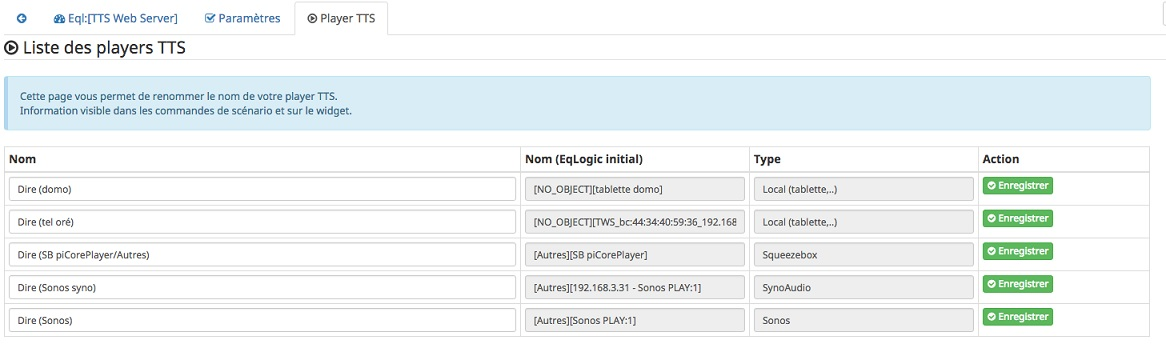
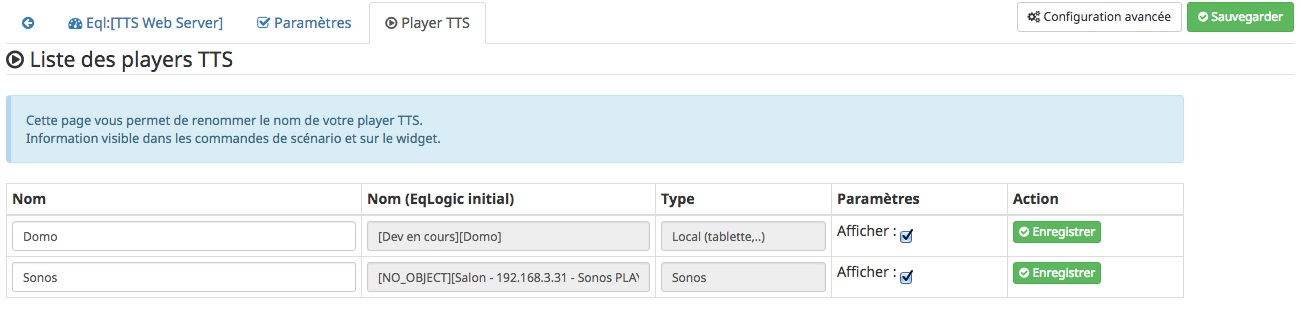
v1.1.0

diff --git a/doc/fr_FR/index.html b/doc/fr_FR/index.html
@@ -370,7 +370,7 @@ span.icon > [class^="icon-"], span.icon > [class*=" icon-"] { cursor: default; }
 <h2 id="_description">Description</h2>
 <div class="sectionbody">
 <div class="paragraph">
-<p>Ce plugin vous permet de générer des messages TTS via un Web Service dédié hébergé sur Androdi (soit hors solution cloud).<br>
+<p>Ce plugin vous permet de générer des messages TTS via un Web Service dédié hébergé sur Android (donc aucune utilisation du cloud).<br>
 Pour permettre cette fonction, ce plugin nécessite obligatoire l&#8217;installation de l&#8217;application Android du même nom (TTS Web Server).<br>
 <br>
 Le plugin dispose des fonctionnalités suivantes :</p>
@@ -378,7 +378,7 @@ Le plugin dispose des fonctionnalités suivantes :</p>
 <div class="ulist">
 <ul>
 <li>
-<p>de diffuser sur différent player <code>(*1)</code>:</p>
+<p>de diffuser sur différents players <code>(*1)</code>:</p>
 <div class="ulist">
 <ul>
 <li>
@@ -401,7 +401,7 @@ Le plugin dispose des fonctionnalités suivantes :</p>
 <div class="ulist">
 <ul>
 <li>
-<p>un espace de partage distant (ex: Synology) ;</p>
+<p>un espace de partage distant (ex: NAS Synology) ;</p>
 </li>
 <li>
 <p>localement sur la box Jeedom ;</p>
@@ -421,9 +421,9 @@ Le plugin dispose des fonctionnalités suivantes :</p>
 <i class="icon-tip" title="Tip"></i>
 </td>
 <td class="content">
-<code>(*1)</code>: <strong>les plugins associés doivent obligatoirement être installés</strong> pour que la diffusion sur ces players fonctionnent correctement (pour certain, les commandes "dire" des plugin initiaux réutilisés).<br>
-Remarque: si le plugin n&#8217;est pas installé, la diffusion de la synthèse par celui ne sera pas proposé au niveau du TTS Web Server.<br>
-<code>(*2)</code>: par défaut, le moteur Google, mais aussi si vous achetez des voix supplémentaires Voxygene par exemple.<br>
+<code>(*1)</code>: <strong>les plugins associés doivent obligatoirement être installés</strong> pour que la diffusion sur ces players fonctionnent correctement (pour certain, les commandes "dire" des plugin initiaux sont réutilisés).<br>
+Remarque: si le plugin n&#8217;est pas installé, la diffusion de la synthèse par celui-ci ne sera pas proposé au niveau du TTS Web Server.<br>
+<code>(*2)</code>: par défaut, le moteur Google, mais aussi si vous achetez des voix supplémentaires (Voxygen par exemple).<br>
 </td>
 </tr>
 </table>
@@ -443,6 +443,13 @@ Remarque: si le plugin n&#8217;est pas installé, la diffusion de la synthèse p
 </td>
 </tr>
 </table>
+</div>
+<div class="sect2">
+<h3 id="__repr_sentation_des_2_widgets_possibles">&#8201;&#8212;&#8201;Représentation des 2 widgets possibles</h3>
+<div class="paragraph">
+<p><span class="image"><img src="../images/ttsWebServer_screenshot7.jpg" alt="ttsWebServer_screenshot7"></span>
+<br></p>
+</div>
 </div>
 </div>
 </div>
@@ -464,7 +471,7 @@ Remarque: si le plugin n&#8217;est pas installé, la diffusion de la synthèse p
 <p>Vérifier que les dépenses sont bonnes ;</p>
 </li>
 <li>
-<p>Ne cocher la case "bouton "Ajouter"" que si la dépense "ARP-SCAN" ne peut pas s&#8217;installer ;</p>
+<p>Ne cocher la case "bouton "Ajouter"" que si la dépendance "ARP-SCAN" ne peut pas s&#8217;installer ;</p>
 </li>
 <li>
 <p>Cocher l&#8217;option "Afficher le panel mobile" ;</p>
@@ -477,7 +484,7 @@ Remarque: si le plugin n&#8217;est pas installé, la diffusion de la synthèse p
 <div class="ulist">
 <ul>
 <li>
-<p>Activer le paramètre "source inconnue" ;</p>
+<p>Activer le paramètre "source inconnue" (généralement accessible dans les paramètres de sécurité) ;</p>
 </li>
 <li>
 <p>Autoriser le stockage de fichier pour l&#8217;application TWS (action à faire, une fois l&#8217;installation terminée, étape ci-dessous) ;</p>
@@ -486,7 +493,7 @@ Remarque: si le plugin n&#8217;est pas installé, la diffusion de la synthèse p
 </div>
 </li>
 <li>
-<p>Depuis l&#8217;interface mobile, se rendre sur la menu plugin ;</p>
+<p>Depuis l&#8217;interface mobile de Jeedom <code>(*1)</code>, se rendre sur le menu plugin ;</p>
 <div class="ulist">
 <ul>
 <li>
@@ -510,15 +517,34 @@ Remarque: si le plugin n&#8217;est pas installé, la diffusion de la synthèse p
 </li>
 </ul>
 </div>
+<div class="admonitionblock tip">
+<table>
+<tr>
+<td class="icon">
+<i class="icon-tip" title="Tip"></i>
+</td>
+<td class="content">
+<code>(*1)</code> l&#8217;interface mobile est accessible via un navigateur Web, il n&#8217;est pas question ici de l&#8217;application mobile de Jeedom.
+</td>
+</tr>
+</table>
+</div>
+</div>
+<div class="sect2">
+<h3 id="__version_android">&#8201;&#8212;&#8201;Version Android</h3>
+<div class="paragraph">
+<p>Pour l&#8217;installation de l&#8217;APK, le build minimum d&#8217;Android autorisé est le "19", correspondant à la version 4.4 (kitkat).
+Pour plus d&#8217;information se référer à la <a href="https://source.android.com/source/build-numbers">liste des versions</a>.</p>
+</div>
 </div>
 <div class="sect2">
 <h3 id="__installation_et_configuration_du_plugin">&#8201;&#8212;&#8201;Installation et configuration du plugin</h3>
 <div class="paragraph">
-<p>Après téléchargement du plugin, vous devez l&#8217;activer pour profiter de ces fonctionnalité.<br></p>
+<p>Après téléchargement du plugin, vous devez l&#8217;activer pour profiter de ces fonctionnalités.<br></p>
 </div>
 <div class="paragraph">
 <p>Une mise à niveau / installation des "Dépendances" est fortement recommandée pour disposer de toutes les fonctionnalités du plugin.
-<em>(plus d&#8217;informations sur <a href="https://github.com/abarrau/jeedom-plugin-ttsWebServer-doc/wiki/TTS-Web-Service-Plugin-:-liste-des-d%C3%A9pendances">les dépendances</a>)</em><br></p>
+<em>(plus d&#8217;informations sur <a href="https://github.com/abarrau/jeedom-plugin-ttsWebServer-doc/wiki/TTS-Web-Server-Plugin-:-liste-des-d%C3%A9pendances">les dépendances</a>)</em><br></p>
 </div>
 <div class="paragraph">
 <p>Des paramètres de configuration vous sont proposés, mais les valeurs par défaut peuvent être conservées.<br></p>
@@ -555,6 +581,17 @@ Un bouton vous permet de réaliser l&#8217;opération manuellement.</p></td>
 <td class="tableblock halign-left valign-top"><p class="tableblock">Si l&#8217;option est activée, une maintenant quotidienne (à 0h), est réalisée pour vérifier si les fichiers listés dans la bibliothèque sont bien présents, en fonction du "lieu" de sauvegarde définie.<br>
 En cas d&#8217;erreur, une icone s&#8217;affiche dans la colonne "emplacement" sur la bibliothèque.<br>
 Un bouton vous permet de réaliser l&#8217;opération manuellement.</p></td>
+</tr>
+<tr>
+<td class="tableblock halign-left valign-top"><p class="tableblock">(Maintenance) Rechercher les fichiers "orphelins"</p></td>
+<td class="tableblock halign-left valign-top"><p class="tableblock">Permet de recherche les fichiers orphelins (présent sur l&#8217;espace de stockage, mais absent de la bibliothèque). 2 valeurs possibles:<br>
+- "création en bibliothèque": le fichier est recréé dans la bibliothèque, mais sans phrase associée; cela vous permet d&#8217;avoir une vision de ce que vous avez dans le répertoire de stockage et les supprimers au besoin.<br>
+- "suppression": le fichier est directement supprimé.</p></td>
+</tr>
+<tr>
+<td class="tableblock halign-left valign-top"><p class="tableblock">(Maintenance) Suppression fichiers anciens</p></td>
+<td class="tableblock halign-left valign-top"><p class="tableblock">Permet de supprimer les fichiers dont la date d&#8217;utilisation est plus anciennes que la durée sélectionnées.<br>
+Valeurs possibles: Désactivé, 15j, 30j, 90j, 180j.</p></td>
 </tr>
 <tr>
 <td class="tableblock halign-left valign-top"><p class="tableblock">(Distant) TimeOut des requêtes</p></td>
@@ -764,8 +801,9 @@ Pour définir l&#8217;ordre, sélectionnez l&#8217;icone "double flêche" et dé
 <p><span class="image"><img src="../images/ttsWebServer_TWS3.jpg" alt="ttsWebServer_TWS3"></span></p>
 </div>
 <div class="paragraph">
-<p>Depuis cette page, vous pouvez renommer le nom des commandes qui ont été détectée comme des players potentiels pour la diffusion de TTS.<br>
-Ce nom apparait au niveau du widget (bouton de validation d&#8217;envoi du texte à synthétiser).<br></p>
+<p>Depuis cette page, vous pouvez renommer le nom des commandes qui ont été détectées comme des players potentiels pour la diffusion de TTS.<br>
+Ce nom apparait au niveau du widget (bouton de validation d&#8217;envoi du texte à synthétiser) sur le widget de l'équipement "Serveur".<br>
+Vous pouvez également paramétrer son affichage ou non (si la case est décoché, la commande ne sera pas affichée sur l'équipement "Serveur").</p>
 </div>
 <div class="admonitionblock note">
 <table>
@@ -774,8 +812,7 @@ Ce nom apparait au niveau du widget (bouton de validation d&#8217;envoi du texte
 <i class="icon-note" title="Note"></i>
 </td>
 <td class="content">
-L&#8217;enregistrement de ce nouveau nom doit obligatoirement être enregistré par le bouton "enregistré" au niveau de chaque ligne (colonne "Action").<br>
-Remarque: il est également recommandé d&#8217;enregistrer au niveau de l'équipement également (pour permettre un raffrachissement des widgets).
+L&#8217;enregistrement de ce nouveau nom (ou changement de paramètres) doit obligatoirement être enregistré par le bouton "enregistré" au niveau de chaque ligne (colonne "Action").<br>
 </td>
 </tr>
 </table>
@@ -841,6 +878,53 @@ La liste "application" n&#8217;est pas encore utilisée, elle est là à titre d
 </table>
 
 <div class="paragraph">
+<p><strong><span class="lime underline">L&#8217;onglet "Commandes"</span></strong> présente les commandes disponilbes au niveau de l'équipement local hébergent l&#8217;application TWS :</p>
+</div>
+<div class="paragraph">
+<p><span class="image"><img src="../images/ttsWebServer_TWS5.jpg" alt="ttsWebServer_TWS5"></span></p>
+</div>
+<div class="paragraph">
+<p>Ces commandes sont créées à la création de l'équipement. Vous ne pouvez ni en ajouter, ni en supprimer (elles seront créées lors d&#8217;un enregistrement).<br>
+Vous pouvez : modifier le nom, paramétrer si vous les afficher ou non et si vous souhaitez historiser les données ou non.</p>
+</div>
+<table class="tableblock frame-topbot grid-all" style="width:100%; ">
+<colgroup>
+<col style="width:25%;">
+<col style="width:75%;"> 
+</colgroup>
+<thead>
+<tr>
+<th class="tableblock halign-left valign-top">Paramètre</th>
+<th class="tableblock halign-left valign-top">Description</th>
+</tr>
+</thead>
+<tbody>
+<tr>
+<td class="tableblock halign-left valign-top"><p class="tableblock">Statut WS</p></td>
+<td class="tableblock halign-left valign-top"><p class="tableblock">Remonte l'état du service de l&#8217;application TWS distante.<br>
+Remarque: cette information est mise à jour à chaque requête vers l&#8217;application.<br>
+Cas à prendre en compte: dans le cas d&#8217;un timeout de la requête TTS, l'état passera à "0".</p></td>
+</tr>
+<tr>
+<td class="tableblock halign-left valign-top"><p class="tableblock">Batterie</p></td>
+<td class="tableblock halign-left valign-top"><p class="tableblock">Remonte le niveau de batterie de l'équipement distant où est hébergé l&#8217;application TWS (en %).<br>
+Remarque: le niveau de batterie reste à la dernière valeur connue lorsque l&#8217;application distante TWS n&#8217;est pas joignable.</p></td>
+</tr>
+<tr>
+<td class="tableblock halign-left valign-top"><p class="tableblock">Dire</p></td>
+<td class="tableblock halign-left valign-top"><p class="tableblock">Cette commande permet d&#8217;envoyer une demande de diffusion TTS sur l'équipement distant.
+(La même commande se retrouve aussi sur l'équipement "Serveur" pour l'équipement distant en question.)<br>
+Remarque: dans ce cas, la fonction "cluster" ne s&#8217;applique pas.</p></td>
+</tr>
+<tr>
+<td class="tableblock halign-left valign-top"><p class="tableblock">Relancer Service</p></td>
+<td class="tableblock halign-left valign-top"><p class="tableblock">Cette commande permet de relancer le Service sur l&#8217;application TWS distante.<br>
+<em>(Attention: cette action NE DEMARRE PAS l&#8217;application, elle relance uniquement le service d'écoute.)</em></p></td>
+</tr>
+</tbody>
+</table>
+
+<div class="paragraph">
 <p><strong><span class="lime underline">L&#8217;onglet "Etats / Infos"</span></strong> présente de remonter des informations liée à l&#8217;application TWS :</p>
 </div>
 <div class="paragraph">
@@ -856,8 +940,8 @@ La liste "application" n&#8217;est pas encore utilisée, elle est là à titre d
 <i class="icon-note" title="Note"></i>
 </td>
 <td class="content">
-<code>(*1)</code>: le changement de voix entre moteur "Voxygène" est assez rapide. Toutefois le retour sur le moteur "Google" peut générer un temps de latence assez important.<br>
-Il est donc déconseillez de faire "yoyo" entre les voix (du moins avec la voix Google), même pour tester !
+<code>(*1)</code>: le changement de voix entre moteur "Voxygen" est assez rapide. Toutefois le retour sur le moteur "Google" peut générer un temps de latence assez important.<br>
+Il est donc déconseillé de faire "yoyo" entre les voix (du moins avec la voix Google), même pour tester !
 </td>
 </tr>
 </table>
@@ -884,7 +968,7 @@ Après avoir respecté ces pré-requis, cliquez sur l&#8217;icone TWS et l&#8217
 <td class="tableblock halign-left valign-top"><p class="tableblock"><span class="image"><img src="../images/ttsWebServer_install_apk.jpg" alt="ttsWebServer_install_apk"></span></p></td>
 <td class="tableblock halign-left valign-top"><p class="tableblock"><strong><span class="red">REMARQUE:</span></strong><br>
 L&#8217;application n'étant pas connue du playStore, vous devez autoriser les "sources inconnues" le temps de l&#8217;installation.<br>
-<span class="red">Une fois l&#8217;installation terminée, je remmande vivement de revenir à l'état initial en désactivant à nouveau les "sources inconnues", afin d'éviter tout risque à votre équipement Android.</span></p></td>
+<span class="red">Une fois l&#8217;installation terminée, je recommande vivement de revenir à l'état initial en désactivant à nouveau les "sources inconnues", afin d'éviter tout risque à votre équipement Android.</span></p></td>
 </tr>
 </tbody>
 </table>
@@ -922,13 +1006,16 @@ L&#8217;utilisateur peut également filtrer les valeurs recherchées.<br></p>
 </li>
 </ul>
 </div>
+<div class="paragraph">
+<p>Le bouton "Tout Supprimer" permet de supprimer toutes les données présentes dans la bibliothèque, ainsi que les fichiers orphelins détectés sur l&#8217;espace de stockage en cours de configuration.<br></p>
+</div>
 </div>
 </div>
 <div class="sect1">
 <h2 id="_fonctionnalit_s_compl_mentaires_disponibles">Fonctionnalités complémentaires disponibles</h2>
 <div class="sectionbody">
 <div class="sect2">
-<h3 id="__lecture_sp_cifique_des_unit_s">&#8201;&#8212;&#8201;Lecture spécifique des unités</h3>
+<h3 id="__lecture_sp_cifique_des_unit_s_sc_narios">&#8201;&#8212;&#8201;Lecture spécifique des unités (scénarios)</h3>
 <div class="paragraph">
 <p>Généralement, la diffusion de la température se fait de la manière suivante : "12,5 degrés".<br>
 Si vous rentrez ces informations dans un format spécifique dans votre champs de saisie, vous pourrez obtenir une diffusion au format "12 degrés 5".<br></p>
@@ -945,13 +1032,30 @@ Si vous rentrez ces informations dans un format spécifique dans votre champs de
 </div>
 </div>
 <div class="sect1">
-<h2 id="_l_application_android">L&#8217;application Android</h2>
+<h2 id="_les_d_pendances">Les Dépendances</h2>
+<div class="sectionbody">
+<div class="paragraph">
+<p>Les dépenses du plugin sont listées à l&#8217;adresse suivante :<br>
+<a href="https://github.com/abarrau/jeedom-plugin-ttsWebServer-doc/wiki/TTS-Web-Server-Plugin-:-liste-des-d%C3%A9pendances">https://github.com/abarrau/jeedom-plugin-ttsWebServer-doc/wiki/TTS-Web-Server-Plugin-:-liste-des-d%C3%A9pendances</a></p>
+</div>
+</div>
+</div>
+<div class="sect1">
+<h2 id="_les_api">Les API</h2>
 <div class="sectionbody">
 <div class="sect2">
-<h3 id="__l_api">&#8201;&#8212;&#8201;L&#8217;API</h3>
+<h3 id="__application_android">&#8201;&#8212;&#8201;Application Android</h3>
 <div class="paragraph">
 <p>Une API est mise à disposition pour comprendre et troubleshooter, les échanges entre le plugin et l&#8217;application.<br>
-Elle est disponible sur l&#8217;espace Github : <a href="https://github.com/abarrau/jeedom-plugin-ttsWebServer-doc/wiki/TTS-Web-Service-Android-:-Description-des-m%C3%A9thodes">l&#8217;API</a>.</p>
+Elle est disponible sur l&#8217;espace Github : <a href="https://github.com/abarrau/jeedom-plugin-ttsWebServer-doc/wiki/TTS-Web-Server-Android-:-Description-des-m%C3%A9thodes">l&#8217;API</a>.<br>
+(Cette API nécessite une clé échangée entre le plugin et l&#8217;Apk).</p>
+</div>
+</div>
+<div class="sect2">
+<h3 id="__int_gration_des_fonctionnalit_es_tws_dans_des_plugins_tiers">&#8201;&#8212;&#8201;Intégration des fonctionnalitées TWS dans des plugins tiers</h3>
+<div class="paragraph">
+<p>Une API est mise à disposition pour permettre aux développeurs de plugin tiers d&#8217;utiliser les fonctionnalité de ce plugin TWS, pour récupérer (par exemple) des fichiers audio issus du plugin TWS.<br>
+Elle est disponible sur l&#8217;espace Github : <a href="https://github.com/abarrau/jeedom-plugin-ttsWebServer-doc/wiki/TTS-Web-Server-Plugin-:-fonctions-pour-plugins-tiers">l&#8217;API</a>.</p>
 </div>
 </div>
 </div>
@@ -967,23 +1071,14 @@ Elle est disponible sur l&#8217;espace Github : <a href="https://github.com/abar
 <li>
 <p>paramétrage de la voix "à la volé", via une commande (utilisable dans les scénarios) ;<br></p>
 </li>
-<li>
-<p>recherche de fichier "orphelin" au niveau de l&#8217;espace de stockage<br></p>
-</li>
 </ul>
-</div>
-<div class="sect2">
-<h3 id="_version_documentaire">Version documentaire</h3>
-<div class="paragraph">
-<p><em>Mise à jour le : 21 mai 2017</em><br></p>
-</div>
 </div>
 </div>
 </div>
 </div>
 <div id="footer">
 <div id="footer-text">
-Last updated 2017-05-22 22:50:56 CEST
+Last updated 2017-08-12 15:45:35 CEST
 </div>
 </div>
 </body>
